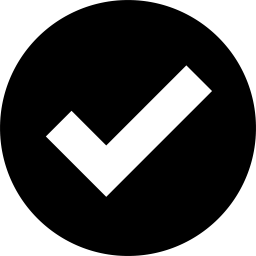
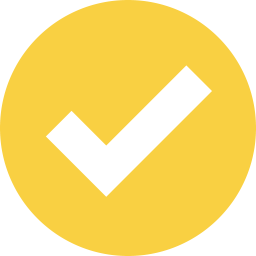
Adds breadcrumb (not stylized yet)

diff --git a/css/mook-front.css b/css/mook-front.css
@@ -112,7 +112,11 @@ a.btn-validate-track {
 a.btn-validate-track.disabled {
 	opacity: 1.00;
 }
-a.btn-validate-track img.certificate {
+a.btn-validate-track img.certificate-validated {
+	height:40px;
+	margin-right: 20px;
+}
+a.btn-validate-track img.certificate-locked {
 	height:40px;
 	margin-right: 20px;
 }
@@ -129,12 +133,8 @@ a.btn-validate-track.validate-disabled {
 	background-color: #cdcdcd;
 	font-size: 1.25em;
 }
-a.btn-validate-track.validate-disabled img {
-	filter: invert(1) brightness(50%);
-	-webkit-filter: invert(1) brightness(50%);
-	-moz-filter: invert(1) brightness(50%);
-	-ms-filter: invert(1) brightness(50%);
-	-o-filter: invert(1) brightness(50%);
+a.btn-validate-track.validate-disabled img.certificate-validated {
+	display: none;
 }
 a.btn-validate-track.validate-disabled img.check {
 	display: none;
@@ -144,33 +144,25 @@ a.btn-validate-track.validate-allowed {
 	background-color: #bce520;
 	font-size: 1.25em;
 }
+a.btn-validate-track.validate-allowed img.certificate-locked {
+	display: none;
+}
 a.btn-validate-track.validate-allowed img.lock {
 	display: none;
 }
 a.btn-validate-track.validate-allowed img.check {
 	display: none;
 }
-a.btn-validate-track.validate-allowed img {
-	filter: invert(1);
-	-webkit-filter: invert(1);
-	-moz-filter: invert(1);
-	-ms-filter: invert(1);
-	-o-filter: invert(1);
-}
 a.btn-validate-track.validated {
 	color: #ffffff;
 	background-color: #f8d041;
 	font-size: 1.25em;
 }
-a.btn-validate-track.validated img.lock {
+a.btn-validate-track.validated img.certificate-locked {
 	display: none;
 }
-a.btn-validate-track.validated img {
-	filter: invert(1);
-	-webkit-filter: invert(1);
-	-moz-filter: invert(1);
-	-ms-filter: invert(1);
-	-o-filter: invert(1);
+a.btn-validate-track.validated img.lock {
+	display: none;
 }
 
 /** PAGE: Track -> Track's skill list **/

diff --git a/app/router.js b/app/router.js
@@ -12,7 +12,7 @@ define(
 		'pods/skill/views/detail',
 		'pods/resource/model',
 		'pods/resource/views/detail',
-		'pods/breadcrumb/views/breadcrumb',
+		'pods/breadcrumb/views/breadcrumbContainer',
 	],
 	function($, _, Backbone, AppHeaderView, 
 		TrackModel, TrackCollection, TrackListView, TrackDetailView, 
@@ -53,8 +53,9 @@ define(
 
 			trackDetail: function(id) {
 				var model = new TrackModel({_id: id});
+				self = this
 				model.fetch().done(function(){
-					updateResourceHierarchyBreadcrumb(model);
+					self.updateResourceHierarchyBreadcrumb(model);
 					var trackDetailView = new TrackDetailView({model: model});
 					trackDetailView.render();
 				});
@@ -62,8 +63,9 @@ define(
 
 			skillDetail: function(id) {
 				var model = new SkillModel({_id: id});
+				self = this
 				model.fetch().done(function(){
-					updateResourceHierarchyBreadcrumb(model);
+					self.updateResourceHierarchyBreadcrumb(model);
 					var skillDetailView = new SkillDetailView({model: model});
 					skillDetailView.render();
 				});
@@ -71,15 +73,16 @@ define(
 
 			resourceDetail: function(id) {
 				var model = new ResourceModel({_id: id});
+				self = this
 				model.fetch().done(function(){
-					updateResourceHierarchyBreadcrumb(model);
+					self.updateResourceHierarchyBreadcrumb(model);
 					var resourceDetailView = new ResourceDetailView({model: model});
 					resourceDetailView.render();
 				});
 			},
 
 			updateResourceHierarchyBreadcrumb: function(model) {
-				var breadcrumbView = new ResourceHierarchyBreadcrumbView({model: model});
+				var breadcrumbView = new ResourceHierarchyBreadcrumbView({model: model.get('breadcrumb')});
 				breadcrumbView.render();
 			}
 

diff --git a/pods/breadcrumb/views/breadcrumbContainer.js b/pods/breadcrumb/views/breadcrumbContainer.js
@@ -1,0 +1,51 @@
+define(
+	[
+		'jquery',
+		'underscore',
+		'backbone',
+
+		'pods/track/model',
+		'pods/skill/model',
+		'pods/resource/model',
+		'text!pods/breadcrumb/templates/breadcrumb-container.html',
+		'pods/breadcrumb/views/breadcrumbElement'
+	],
+	function($, _, Backbone, TrackModel, SkillModel, ResourceModel, breadcrumbContainerTemplate, BreadcrumbElementView) {
+
+		return Backbone.View.extend({
+
+			el: $('#breadcrumb-container'),
+			
+			template: _.template(breadcrumbContainerTemplate),
+
+			render: function() {
+				var html = this.template();
+				console.log("BreadcrumbContainerView", html);
+				this.$el.html(html);
+
+				for (var i=0; i < this.model.length; i++)
+				{
+					element = this.renderElement(this.model[i]);
+					if (i == this.model.length-1)
+					{
+						element.$el.addClass('active');
+					}
+				}
+				// _.each(this.model, this.renderElement, this);
+
+				return this;
+			},
+
+			renderElement: function(element) {
+				console.log("renderElement", element);
+				var breadcrumbElementView = new BreadcrumbElementView({model: element});
+				breadcrumbElementView.render();
+				this.$el.find('.breadcrumb').append(breadcrumbElementView.$el);
+			
+				return this;
+			},
+
+		});
+
+	}
+);

diff --git a/pods/breadcrumb/views/breadcrumbElement.js b/pods/breadcrumb/views/breadcrumbElement.js
@@ -1,0 +1,55 @@
+define(
+	[
+		'jquery',
+		'underscore',
+		'backbone',
+
+		'pods/breadcrumb/model',
+		'text!pods/breadcrumb/templates/breadcrumb-element.html',
+		'pods/track/model',
+		'pods/skill/model',
+		'pods/resource/model'
+	],
+	function($, _, Backbone,
+		BreadcrumbModel,
+		breadcrumbElementTemplate,
+		TrackModel,
+		SkillModel,
+		ResourceModel
+		) {
+
+		return Backbone.View.extend({
+
+			model: BreadcrumbModel,
+			
+			tagName: 'li',
+
+			template: _.template(breadcrumbElementTemplate),
+
+			render: function() {
+				console.log('this.model', this.model);
+				if (this.model.track_id != undefined)
+				{
+					var track = new TrackModel({_id: this.model.track_id});
+					this.model['url'] = track.route();
+				}
+				else if (this.model.skill_id != undefined)
+				{
+					var skill = new SkillModel({_id: this.model.skill_id});
+					this.model['url'] = skill.route();
+				}
+				else if (this.model.resource_id != undefined)
+				{
+					var resource = new ResourceModel({_id: this.model.resource_id});
+					this.model['url'] = resource.route();
+				}
+
+				var html = this.template({breadcrumb: this.model});
+				this.$el.html(html);
+				
+				return this;
+			}
+		});
+		
+	}
+);

diff --git a/pods/track/templates/detail.html b/pods/track/templates/detail.html
@@ -11,7 +11,7 @@
 
 	<!-- #TODO: this button should have a href to redirect to the track validation screen. -->
 	<a href="" class="btn <%= track.validateButtonClass %> btn-validate-track <%= track.validateButtonStatus %>">
-		<img src="assets/images/iconmonstr-certificate-12-icon-256.png" class="certificate"><%= track.validateButtonText %><img src="assets/images/iconmonstr-lock-3-icon-256.png" class="lock"><img src="assets/images/iconmonstr-check-mark-4-icon-256.png" class="check">
+		<img src="assets/images/iconmonstr-certificate-validate.png" class="certificate-validated"><img src="assets/images/iconmonstr-certificate-locked.png" class="certificate-locked"><%= track.validateButtonText %><img src="assets/images/iconmonstr-lock-3-icon-256.png" class="lock"><img src="assets/images/iconmonstr-check-mark-4-icon-256.png" class="check">
 	</a>
 
 	<ul id="track-outline" class="media-list">

diff --git a/index.html b/index.html
@@ -16,7 +16,7 @@
 
 		<div id="header"></div>
 
-		<div id="breadcrumb"></div>
+		<div id="breadcrumb-container"></div>
 
 		<div class="container">
 			<div class="row" id="container">

diff --git a/pods/breadcrumb/model.js b/pods/breadcrumb/model.js
@@ -1,0 +1,16 @@
+define(
+	[
+		'jquery',
+		'underscore',
+		'backbone',
+	],
+	function($, _, Backbone) {
+
+		return Backbone.Model.extend({
+
+			
+
+		});
+
+	}
+);

diff --git a/pods/breadcrumb/templates/breadcrumb-element.html b/pods/breadcrumb/templates/breadcrumb-element.html
@@ -1,0 +1,1 @@
+<a href="<%= breadcrumb.url %>"><%= breadcrumb.title %></a>

diff --git a/pods/breadcrumb/templates/breadcrumb-container.html b/pods/breadcrumb/templates/breadcrumb-container.html
@@ -1,0 +1,2 @@
+<ol class="breadcrumb">
+</ol>
